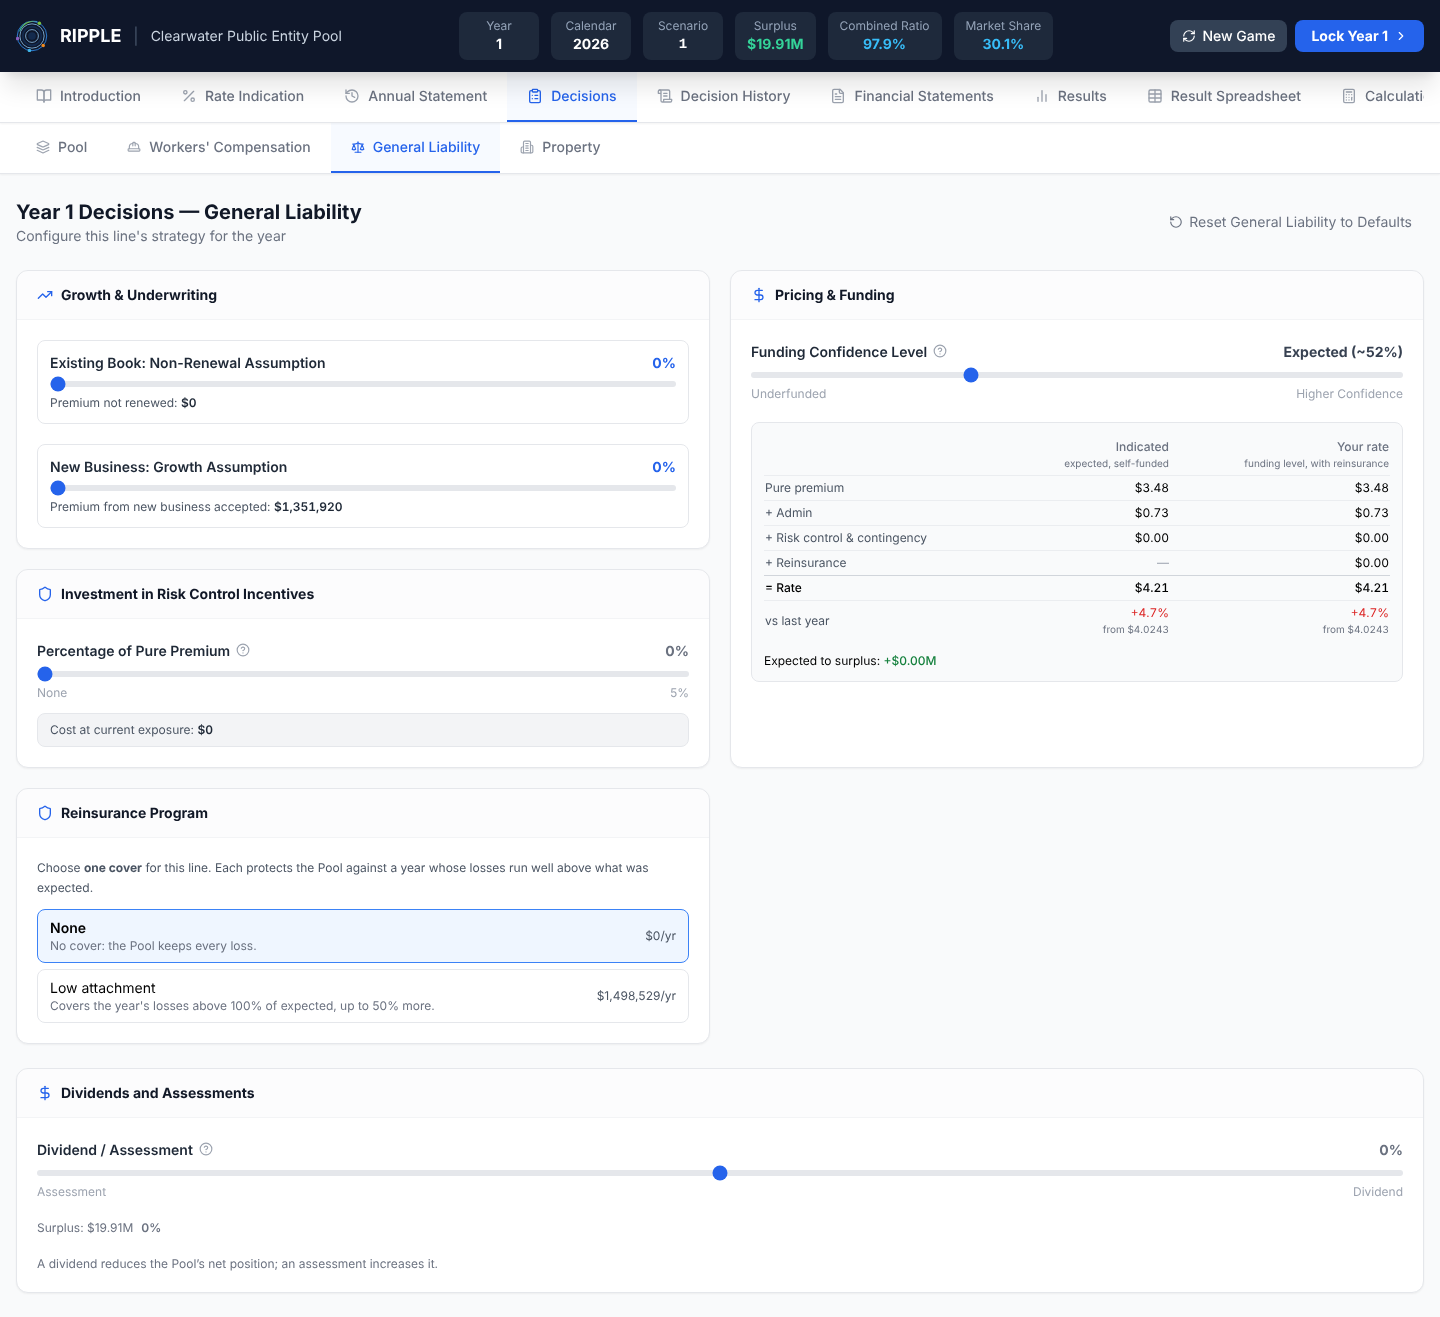
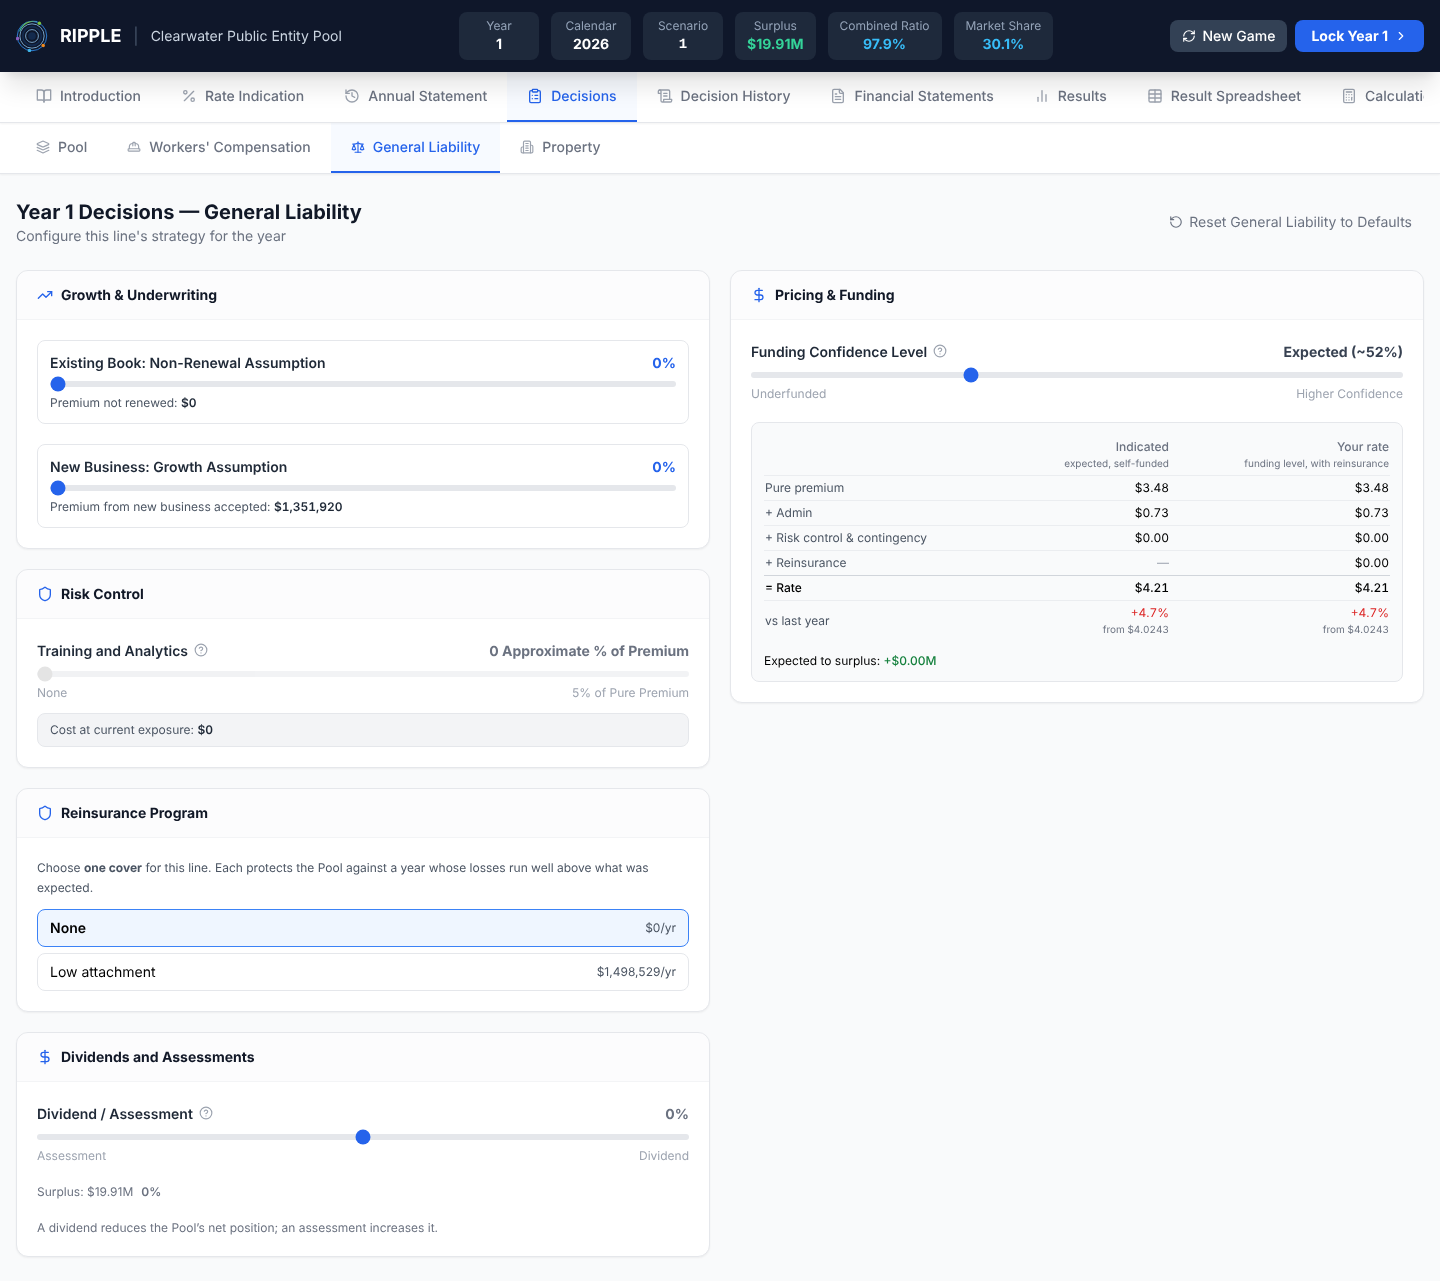
Decisions page: reinsurance and dividends in the left column; risk control held at 0%
Display only; no engine value moves.

- Left column: Underwriting, Risk Control, Reinsurance, then Dividends and
  Assessments at the foot, the left column's width. Pricing & Funding on
  the right.
- Risk Control: titled "Risk Control"; the program name is the slider's
  label, the value reads "<n> Approximate % of Premium", the ends "None"
  and "5% of Pure Premium". Disabled at 0% while RISK_CONTROL is off, and
  the gray cost box shows $0, never a cost the game does not charge.
  Recorded at RISK_CONTROL and in PENDING_MULTIPLAYER: when switched on it
  must be charged as a percentage of the pure premium, matching the label.
- Reinsurance: each option shows its name and price only.
- decision-figures-check: the cost is $0 with the flag off at every stored
  value, and the engine's own charge with it forced on.
- full-session driver: nudgeSlider takes the slider nearest its label, not
  the first within five ancestors, which found an underwriting slider once
  the columns moved.
- Screenshots retaken.

Claude-Session: https://claude.ai/code/session_01Fo2BPoXiA5N4pgk5Jgcw3V

diff --git a/src/pages/DecisionsPage.tsx b/src/pages/DecisionsPage.tsx
@@ -14,7 +14,7 @@ import { PROPERTY_PERIL_DEDUCTIBLE, type TowerLine } from '../data/reinsuranceTo
 import { occurrenceProgramCost } from '../utils/reinsuranceTower';
 import { placementFor, reinsuranceOptionIds, reinsuranceOptionsFor } from '../utils/reinsuranceOptions';
 import { bookExposureOf, bookRiskOf, type Book } from '../utils/lineHelpers';
-import { stopQuote, stopWording } from '../utils/aggregateStop';
+import { stopQuote } from '../utils/aggregateStop';
 import { lineDisplayName } from '../utils/lineDisplay';
 import { lookupCLF } from '../utils/simulationEngine';
 import { hasStaticClf, RESERVE_MARGIN_CONFIDENCE, staticClf } from '../data/clfTables';
@@ -24,7 +24,7 @@ import { RENEWAL_CUT_STEPS, renewalDeclines } from '../utils/renewalUnderwriting
 import { EXPERIENCE_MOD } from '../utils/memberExperienceMod';
 import { REENROLLMENT_COOLDOWN_YEARS } from '../utils/membershipHistory';
 import {
-  AGGREGATE_STOP, AGGREGATE_STOP_OPTIONS, MEMBER_LEVEL, NEW_BUSINESS_REJECTION_SLIDER, RENEWALS_DECLINED_SLIDER,
+  AGGREGATE_STOP, AGGREGATE_STOP_OPTIONS, MEMBER_LEVEL, NEW_BUSINESS_REJECTION_SLIDER, RENEWALS_DECLINED_SLIDER, RISK_CONTROL,
 } from '../data/pricingParameters';
 
 export interface LineLoanInfo {
@@ -186,15 +186,13 @@ export default function DecisionsPage({ decisions, onChange, yearNumber, disable
         )}
       </div>
 
-      {/* ⚠ LEFT: Underwriting and Risk Control. RIGHT: Pricing & Funding. The
-          Dividend / Assessment box is below every other choice, full width. */}
-      <div className="grid grid-cols-1 lg:grid-cols-2 gap-5">
-        {/* ⚠ LEFT COLUMN: UNDERWRITING, THEN RISK CONTROL; PRICING & FUNDING IS THE
-            RIGHT. One grid cell holding the two cards, so Risk Control sits DIRECTLY
-            UNDER the underwriting sliders rather than wherever the grid's flow
-            would drop it — left as two siblings it would wrap under Pricing &
-            Funding. The Dividend / Assessment control is no longer in Pricing &
-            Funding: it has its own full-width box at the foot of the page. */}
+      {/* ⚠ LEFT: Underwriting, Risk Control, Reinsurance, then Dividends and
+          Assessments at the foot. RIGHT: Pricing & Funding. */}
+      <div className="grid grid-cols-1 lg:grid-cols-2 gap-5 items-start">
+        {/* ⚠ EACH COLUMN IS ONE GRID CELL holding its cards, so every card sits
+            DIRECTLY UNDER the one above it in its own column rather than wherever
+            the grid's flow would drop it. Dividends and Assessments is the left
+            column's last card, the left column's width. */}
         <div className="space-y-5">
         <SectionCard title="Growth & Underwriting" icon={<TrendingUp size={16} />}>
           {/* ⚠ THE UNDERWRITING STRICTNESS SLIDER IS DELETED. It said "Strict
@@ -249,38 +247,20 @@ export default function DecisionsPage({ decisions, onChange, yearNumber, disable
           )}
         </SectionCard>
 
-        <SectionCard title="Investment in Risk Control Incentives" icon={<Shield size={16} />}>
-          {/* ⚠ THE SLIDER IS LIVE ON THIS BUILD WHILE RISK_CONTROL IS OFF, and
-              what it shows is its cost, not an effect. The engine reads the
-              incentive as zero with the flag off, so the stored decision moves
-              nothing the pool is billed or books; the cost beneath it is the
-              rate quote's own risk control loading at the slider's value
-              (derivations.ts riskControlCost). */}
+        <SectionCard title="Risk Control" icon={<Shield size={16} />}>
+          {/* ⚠ DISABLED AT 0% WHILE RISK_CONTROL IS OFF, and the cost box shows
+              $0: the engine charges nothing for it, and the box never shows a
+              cost the game does not charge (derivations.ts riskControlCost).
+              When the flag comes on it must be charged as a share of the PURE
+              PREMIUM, matching the slider's end label — see RISK_CONTROL. */}
           <RiskControlIncentives
             line={selectedLine}
-            value={d.riskControlIncentivePct ?? SLIDER_RANGES.riskControlIncentivePct.default}
+            value={RISK_CONTROL.enabled ? (d.riskControlIncentivePct ?? SLIDER_RANGES.riskControlIncentivePct.default) : 0}
             onChange={v => set('riskControlIncentivePct', v)}
-            disabled={disabled}
+            disabled={disabled || !RISK_CONTROL.enabled}
             cost={riskControlCost}
           />
         </SectionCard>
-        </div>
-
-        <SectionCard title="Pricing & Funding" icon={<DollarSign size={16} />}>
-          {/* Rate Change REMOVED — CLF-only pricing. Funding Confidence Level
-              is now the sole pricing lever; the consequence panel below
-              replaces the information the deleted lever used to carry. */}
-          <FundingLevelControl
-            d={d}
-            fundingConsequence={fundingConsequence}
-            setFundingLevel={setFundingLevel}
-            setFundingAtExpected={setFundingAtExpected}
-            disabled={disabled}
-          />
-          <FundingConsequencePanel c={fundingConsequence} lastLineResult={lastLineResult} line={selectedLine} />
-        </SectionCard>
-
-        {outstandingLoanSlider(d, set, selectedLoanInfo, disabled)}
 
         <SectionCard title="Reinsurance Program" icon={<Shield size={16} />}>
           {/* REINSURANCE_PROGRAMS RETIRED. Every CoverageLine runs the
@@ -302,9 +282,7 @@ export default function DecisionsPage({ decisions, onChange, yearNumber, disable
           ) : (() => { throw new Error(`DecisionsPage: ${selectedLine} has no tractable ceded reinsurance`); })()}
         </SectionCard>
 
-      </div>
-
-      <SectionCard title="Dividends and Assessments" icon={<DollarSign size={16} />}>
+        <SectionCard title="Dividends and Assessments" icon={<DollarSign size={16} />}>
           <SliderInput label="Dividend / Assessment" value={dividendAssessmentValue} min={SLIDER_RANGES.dividendAssessment.min} max={dividendAssessmentMax} step={SLIDER_RANGES.dividendAssessment.step} onChange={setDividendAssessment} formatValue={dividendAssessmentDisplay} leftLabel="Assessment" rightLabel="Dividend" valueColor={dividendAssessmentValue > 0 ? 'text-emerald-600' : dividendAssessmentValue < 0 ? 'text-red-600' : 'text-gray-500'} disabled={disabled} helpText="One combined control: positive returns value to members as a dividend; negative calls additional funds beyond premium as an assessment. Exactly one may apply in a given year — this is structural, not a suggestion. Assessments are never counted toward the loss ratio of the members being billed." />
           <DividendAssessmentNote surplus={dividendAssessmentSurplus} pct={dividendAssessmentValue} />
           <p data-testid="dividend-assessment-note" className="text-xs text-gray-500 -mt-3">
@@ -317,7 +295,27 @@ export default function DecisionsPage({ decisions, onChange, yearNumber, disable
           {selectedLoanInfo.dividendBlocked && (
             <p className="text-xs text-red-600 -mt-3">Dividend blocked: this line carried a negative surplus in from last year.</p>
           )}
-      </SectionCard>
+        </SectionCard>
+        </div>
+
+        <div className="space-y-5">
+          <SectionCard title="Pricing & Funding" icon={<DollarSign size={16} />}>
+            {/* Rate Change REMOVED — CLF-only pricing. Funding Confidence Level
+                is now the sole pricing lever; the consequence panel below
+                replaces the information the deleted lever used to carry. */}
+            <FundingLevelControl
+              d={d}
+              fundingConsequence={fundingConsequence}
+              setFundingLevel={setFundingLevel}
+              setFundingAtExpected={setFundingAtExpected}
+              disabled={disabled}
+            />
+            <FundingConsequencePanel c={fundingConsequence} lastLineResult={lastLineResult} line={selectedLine} />
+          </SectionCard>
+
+          {outstandingLoanSlider(d, set, selectedLoanInfo, disabled)}
+        </div>
+      </div>
     </div>
   );
 }
@@ -961,22 +959,24 @@ function RiskControlIncentives({ line, value, onChange, disabled, cost }: {
   value: number;
   onChange: (v: number) => void;
   disabled: boolean;
-  /** What the setting costs at the line's current exposure, in dollars. Absent shows no box. */
+  /** What the setting costs at the line's current exposure, in dollars — $0 while RISK_CONTROL is off. Absent shows no box. */
   cost?: number | null;
 }) {
   const r = SLIDER_RANGES.riskControlIncentivePct;
   return (
     <div className="space-y-3">
+      {/* The program is the label; the value reads as an approximate share of
+          premium, the right end as the most of the pure premium it can spend. */}
       <SliderInput
-        label="Percentage of Pure Premium"
+        label={RISK_CONTROL_PROGRAM_NAME[line]}
         value={value}
         min={r.min}
         max={r.max}
         step={r.step}
         onChange={onChange}
-        formatValue={v => `${Math.round(v * 100)}%`}
+        formatValue={v => `${Number((v * 100).toFixed(1))} Approximate % of Premium`}
         leftLabel="None"
-        rightLabel={`${Math.round(r.max * 100)}%`}
+        rightLabel={`${Number((r.max * 100).toFixed(1))}% of Pure Premium`}
         valueColor={value > 0 ? 'text-emerald-600' : 'text-gray-500'}
         disabled={disabled}
         helpText={`How much of ${lineDisplayName(line)}'s premium is spent on ${RISK_CONTROL_PROGRAM_NAME[line]}.`}
@@ -1080,8 +1080,8 @@ function PackageControls(props: {
 // ============================================================================
 // THE AGGREGATE STOP — ONE CHOICE PER LINE (stable-scenarios commit 6).
 //
-// ⚠ EACH OPTION'S NAME, WHAT IT COVERS IN ONE SENTENCE, AND ITS PRICE — NEVER
-// its expected recovery or how it was priced (docs/PENDING_MULTIPLAYER.md).
+// ⚠ EACH OPTION'S NAME AND ITS PRICE ONLY — no description of what it covers,
+// and never its expected recovery or how it was priced (docs/PENDING_MULTIPLAYER.md).
 // The price is the engine's own quote (aggregateStop.stopQuote) on the line's
 // book and year, so the panel cannot show a figure the engine does not charge.
 // ============================================================================
@@ -1119,10 +1119,8 @@ function StopControls({ line, d, setMany, disabled, book, yearNumber, shocks }: 
                 chosen ? 'border-blue-500 bg-blue-50' : 'border-gray-200 bg-white hover:bg-gray-50'
               } ${disabled ? 'opacity-60 cursor-not-allowed' : ''}`}
             >
-              <span>
-                <span className={chosen ? 'font-semibold' : ''}>{o.name}</span>
-                <span className="block text-xs text-gray-500">{stopWording(o.id)}</span>
-              </span>
+              {/* ⚠ NAME AND PRICE ONLY: no description of what the cover answers. */}
+              <span className={chosen ? 'font-semibold' : ''}>{o.name}</span>
               <span className="text-xs text-gray-600 whitespace-nowrap">{formatCurrency(price)}/yr</span>
             </button>
           );

diff --git a/scripts/diagnostics/decision-figures-check.ts b/scripts/diagnostics/decision-figures-check.ts
@@ -16,12 +16,13 @@
 //      what processYear writes, for the non-renewal and rejection settings
 //      tried. The rate the dollars are priced at equals strikeBookRate's, the
 //      engine's own pre-movement quote.
-//   2. RISK CONTROL. The page's cost equals the engine's: with RISK_CONTROL
-//      forced on, strikeBookRate's quote at the slider's value gives
-//      (final rate - reinsurance) x the incentive x exposure. The flag is off
-//      for the page's call and on for the engine's, which is the point — and
-//      with it off, the stored slider moves nothing the engine returns (the
-//      two processYear results are identical).
+//   2. RISK CONTROL. With RISK_CONTROL off, as it ships, the page's cost is $0
+//      at every stored value — the game charges nothing, so the box shows
+//      nothing charged — and the stored slider moves nothing the engine
+//      returns (the two processYear results are identical). With the flag
+//      forced on, the page's cost equals the engine's: strikeBookRate's quote
+//      at the slider's value gives (final rate - reinsurance) x the incentive
+//      x exposure.
 //   3. YOUR RATE. At Expected and at 50%, 70%, 80% and 90% funding, the pure
 //      premium shown is the retained pure premium x the CLF, the CLF is
 //      selectedClfFor's, and pure premium + admin + risk control &
@@ -143,12 +144,17 @@ for (const gs of games) {
     for (const rc of [0, 0.01, 0.03, 0.05]) {
       const ds = withLine(defaultDecisionSet(1), line, { riskControlIncentivePct: rc, fundingAtExpected: false, fundingConfidenceLevel: 0.8 });
       const d = ds.byLine[line];
+      // Off (as it ships): the engine charges nothing, so the box shows $0
+      // whatever is stored — never a cost the game does not charge.
       check(!RISK_CONTROL.enabled, 'RISK_CONTROL is expected off for the page\'s call');
-      const page = riskControlCost(stateOf(gs, ds), line, ds);
-      let engine: number;
+      const off = riskControlCost(stateOf(gs, ds), line, ds);
+      check(off === 0, `${line} rc ${rc}: the box shows $${off} with RISK_CONTROL off`);
+      // On: the box is the engine's own charge for the incentive.
+      let page: number | null, engine: number;
       const was = RISK_CONTROL.enabled;
       try {
         RISK_CONTROL.enabled = true;
+        page = riskControlCost(stateOf(gs, ds), line, ds);
         const s = struck(gs, line, d);
         engine = (s.quote.finalRatePer100 - s.quote.reinsRatePer100) * rc * s.exposure * 10_000;
       } finally {

diff --git a/src/game/derivations.ts b/src/game/derivations.ts
@@ -38,7 +38,7 @@ import { bookExposureOf, bookRiskOf, getMemberExposure, isRoster, selectResultVi
 import { exposureFactor } from '../data/exposureTrend';
 import { lineBookRisk, marketSeedOf } from '../utils/bookUnits';
 import { moveBook, moveBookUnits } from '../utils/bookUnderwriting';
-import { MEMBER_LEVEL, newLossEngineRuns } from '../data/pricingParameters';
+import { MEMBER_LEVEL, newLossEngineRuns, RISK_CONTROL } from '../data/pricingParameters';
 import type { LinePoolState } from '../types/simulation';
 
 /** A line's exposure this year — its book, or its active roster. */
@@ -166,14 +166,20 @@ export function underwritingFigures(
  * rate's risk control loading (quoteNewRateStack.riskControlPer100) on the
  * book's exposure, at the funding level and cover chosen.
  *
- * ⚠ THE QUOTE IS TAKEN AT THE SLIDER'S OWN VALUE, NOT AT THE ENGINE'S. While
- * RISK_CONTROL is off the engine reads the incentive as zero and the panel's
- * quote carries none, so the panel's quote cannot price a slider the engine
- * ignores. The slider's value goes straight into the same quote function and
- * the flag is left as it is — nothing the engine bills or books moves. With the
- * flag on, the figure is what the engine's rate charges for the incentive.
+ * ⚠ $0 WHILE RISK_CONTROL IS OFF. The engine charges nothing for the incentive
+ * then, and the slider is disabled at 0%, so the box shows $0 — never a cost the
+ * game does not charge. With the flag on, the figure is what the engine's rate
+ * charges for the incentive at the slider's value.
+ *
+ * ⚠ OPEN, FOR WHEN THE FLAG COMES ON: the engine loads the incentive as a share
+ * of the loaded rate (quoteNewRateStack's divisor), but the slider is labelled
+ * as a share of the PURE PREMIUM. It must be charged as a percentage of the pure
+ * premium, matching the label, before the flag is switched on.
  */
 export function riskControlCost(gameState: GameState, line: CoverageLine, decisions: DecisionSet): number | null {
+  // ⚠ $0 WHILE RISK_CONTROL IS OFF: the engine charges nothing for the
+  // incentive, and the box never shows a cost the game does not charge.
+  if (!RISK_CONTROL.enabled) return 0;
   const d = decisions.byLine[line];
   const { book } = fundingConsequenceInput(gameState, line, decisions);
   const c = computeFundingConsequence(

diff --git a/src/data/pricingParameters.ts b/src/data/pricingParameters.ts
@@ -662,6 +662,13 @@ export const MEMBER_LEVEL = { enabled: false };
  * Decisions page shows each line's slider disabled at 0% ("coming soon") and
  * the Departments screen hides the programs. The programs, the spend and their
  * code are kept intact and unwired, for the pool-level redesign to reuse.
+ *
+ * ⚠ WHEN IT IS SWITCHED ON, IT MUST BE CHARGED AS A PERCENTAGE OF THE PURE
+ * PREMIUM. The Decisions slider is labelled that way ("5% of Pure Premium" at
+ * its end), but quoteNewRateStack loads it today as a share of the loaded rate,
+ * in the divisor. Change the charge to match the label before turning this on;
+ * the slider's gray cost box (derivations.ts riskControlCost) then shows the
+ * real cost, and shows $0 until then.
  */
 export const RISK_CONTROL = { enabled: false };
 

diff --git a/docs/PENDING_MULTIPLAYER.md b/docs/PENDING_MULTIPLAYER.md
@@ -314,6 +314,13 @@ soon"**, so testers know it is part of the game; the old programs are hidden on
 the Departments screen. The programs, the spend and their code are kept intact
 and unwired for the redesign to reuse.
 
+**When it is switched on, it must be charged as a percentage of the pure
+premium**, matching the Decisions slider's label ("5% of Pure Premium" at its
+right end). Today `quoteNewRateStack` loads it as a share of the loaded rate, in
+the divisor; that changes before the flag comes on. Until then the slider is
+disabled at 0% and its gray cost box shows $0 — never a cost the game does not
+charge — and it shows the real cost once the flag is on.
+
 ### The old engine — frozen on the `legacy-engine` branch
 
 The repository's tag protection refuses a pushed tag, so the old engine is
